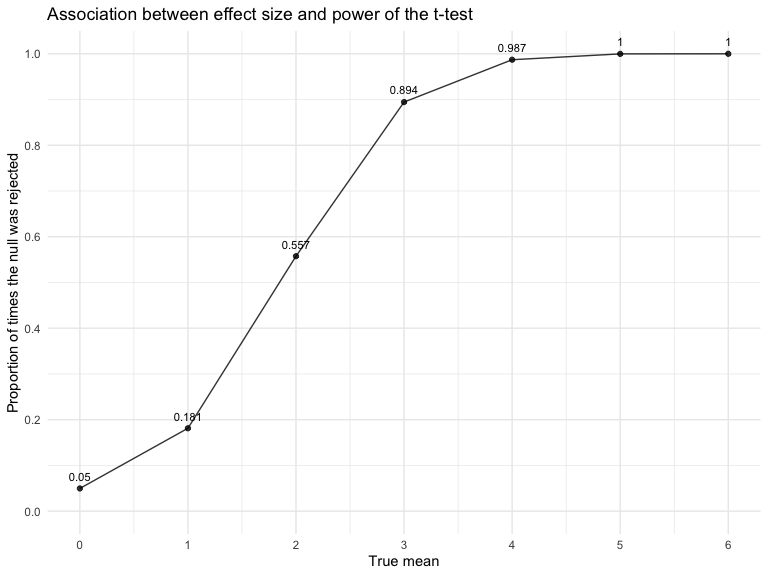
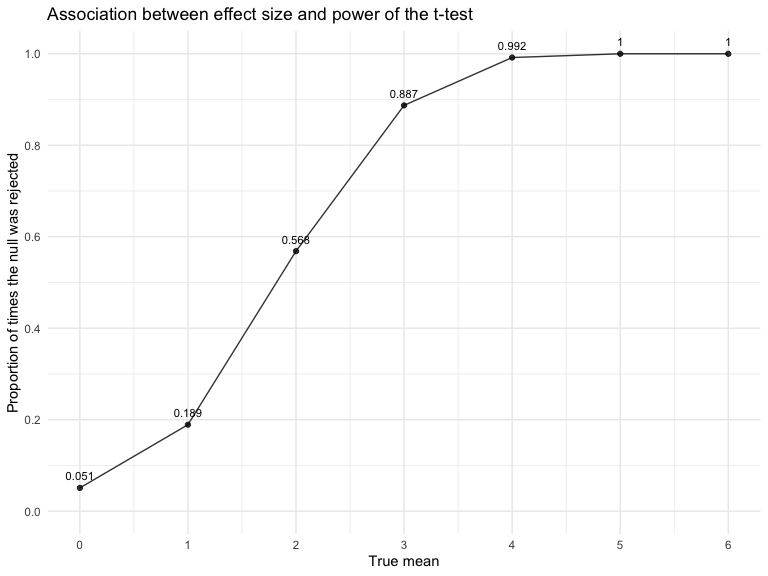
modify the simulation function code

diff --git a/p8105_hw5_yj2687.md b/p8105_hw5_yj2687.md
@@ -159,37 +159,36 @@ prop_cities %>%
 
 ``` r
 # Construct function for one-sample t-test
-set.seed(1)
-
-ttest = function(mu){
-  sim_data = tibble(x = rnorm(n = 30, mean = mu, sd = 5)) 
-  ttest =
-    t.test(sim_data$x, mu = 0, conf.level = 0.95) %>% 
-    broom::tidy() %>% 
-    select(estimate, p.value)
-  return(ttest)
-} 
-
-# Generate 5000 datasets from the model and repeat the t-test
-sim_result = function(mu){
-  rerun(5000, ttest(mu)) %>% 
-    bind_rows()
+ttest = function(n = 30, mu, sigma = 5){
+  sim_data = tibble(x = rnorm(n, mean = mu, sd = sigma)) 
+    
+  test_data = t.test(sim_data, mu = 0, conf.level = 0.95)
+  
+  sim_data %>% 
+    summarize(
+      estimate = pull(broom::tidy(test_data), estimate),
+      p_value = pull(broom::tidy(test_data), p.value)
+    )
 }
 
-# For mu = 0
-sim_0 = sim_result(0)
+# Generate 5000 datasets from the model and repeat the t-test for mu = 0,1,2,3,4,5,6
+set.seed(1)
 
-# For mu = 0,1,2,3,4,5,6
-sim_result = tibble(mu = c(0:6)) %>%
-  mutate(output = map(.x = mu, ~sim_result(.x))) %>%
-  unnest(output)
+sim_result = 
+  tibble(mu = c(0:6)) %>% 
+  mutate(
+    output_list = map(.x = mu, ~rerun(5000, ttest(mu = .x))),
+    estimate_df = map(output_list, bind_rows)
+    ) %>% 
+  select(-output_list) %>% 
+  unnest(estimate_df)
 ```
 
 ``` r
 # Make a plot showing the proportion of times the null was rejected on the y axis and the true value of mu on the x axis
 sim_result  %>% 
   group_by(mu) %>%
-  filter(p.value <= 0.05) %>% 
+  filter(p_value <= 0.05) %>% 
   summarize(rej_num = n(), rej_prop = rej_num/5000) %>% 
   ggplot(aes(x = mu, y = rej_prop)) + 
   geom_point(alpha = 0.8) +
@@ -236,7 +235,7 @@ sim_result %>%
 ``` r
 # Make a second plot (or overlay on the first) the average estimate of mu only in samples for which the null was rejected on the y axis and the true value of mu on the x axis
 sim_rej = sim_result %>% 
-  filter(p.value < 0.05) %>% 
+  filter(p_value < 0.05) %>% 
   group_by(mu) %>% 
   summarise(avg_estimate = mean(estimate)) 
 
